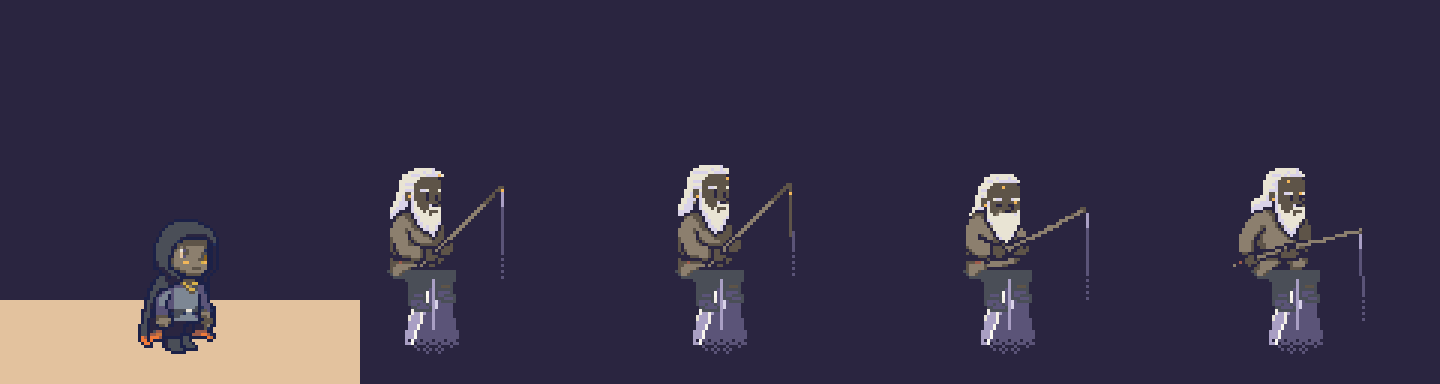
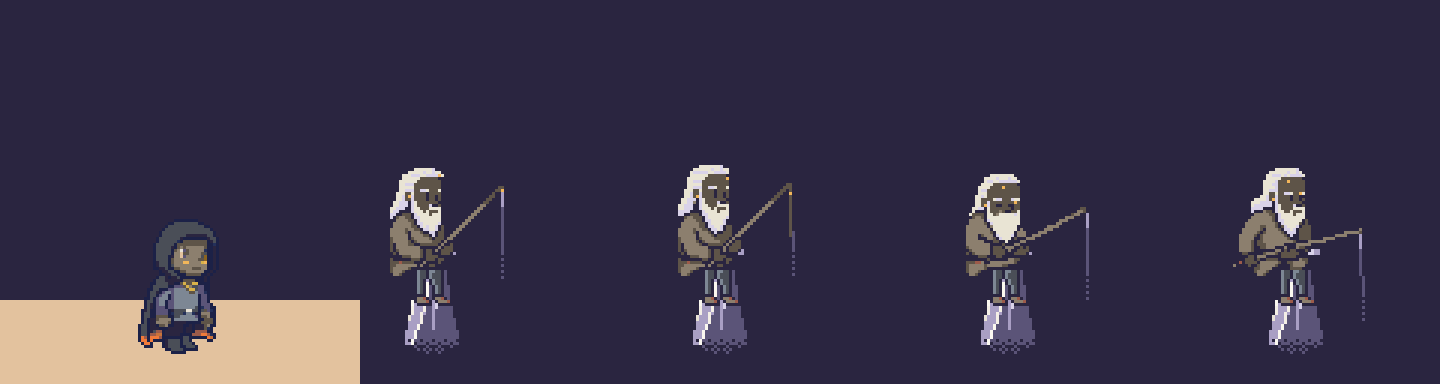
Asset: Kesh's legs and a wider perch (David's holding playtest)
Kesh read as fused into his pillar: the trousers were one block, the foot
wraps vanished into the rock and he covered the whole perch.

- npc-kesh: his legs drawn by hand on every frame (kesh.py, LEGS): two short
  thighs on the perch, the knees at its lip, two thin shins hanging down the
  needle's face with its light between them, lit on the left (watcher-stone
  on watcher-iron), outlined, the feet in sailcloth wraps shaded ochre so
  they separate from the rock. The generator's legs and toss's squat go.
- prop-kesh-rock: the perch is a flat cap 4 px wider than the needle on each
  side, its lit top showing either side of his thighs.

Same sheet, cell, origin, rows and hand points; asset only.

Claude-Session: https://claude.ai/code/session_01TJweWsCqobMAWeG9UfQZag

diff --git a/art/clean/npc-kesh/kesh.py b/art/clean/npc-kesh/kesh.py
@@ -101,15 +101,50 @@ def strip(px):
                 del px[p]
 
 
-def legs_from(px, donor):
-    """Below the hip his legs are the donor's (fish 1: dangling); only the throwing hand, left of the body
-    at the hip, stays the frame's own."""
-    gone = lambda p: p[1] >= HIP and (p[0] >= 26 or p[1] >= HIP + 2)
-    for p in [p for p in px if gone(p)]:
+# His legs, drawn by hand (David's playtest, 2026-10-18: the generator's trousers read as one block and
+# the wraps vanished into the rock): two short thighs on the perch, narrower than it so its lit top shows
+# either side, the knees at its lip, two thin shins hanging down the needle's face with its light showing
+# between them, the feet in sailcloth wraps pointing south-east.
+# Lit on the left (watcher-stone), trousers watcher-iron, wraps unwritten-sail shaded sleeper-ochre, all
+# outlined. Raw pixels from (LEGS_X, HIP); '.' leaves the pixel as it is.
+LEGS_X = 30
+LEGS = [
+    ".....OSIIOSSIIO......",
+    ".....OSIIOSIIIO......",
+    ".....OSIIOSIIIO......",
+    ".....OSIO.OSIIO......",
+    ".....OSIO.OSIIO......",
+    ".....OSIO..OSIO......",
+    ".....OSIO..OSIO......",
+    ".....OSIO..OSIO......",
+    ".....OOOO..OOOO......",
+    ".....OWWwO.OWWwO.....",
+    ".....OWWWwO.OWWWwO...",
+    "......OOOOO..OOOOO...",
+]
+LEG_INK = {"O": "hollow-deep", "S": "watcher-stone", "I": "watcher-iron", "W": "unwritten-sail",
+           "w": "sleeper-ochre"}
+
+
+def clear_legs(px, donor=None):
+    """Everything the generator drew below the hip goes (in toss the squat as well), but the coat's hem at
+    his left and, in toss, the throwing hand; toss takes its hem from the donor (fish 1)."""
+    hem = lambda p: HIP <= p[1] < HIP + 3 and 26 <= p[0] < LEGS_X + 3
+    for p in [p for p in px if p[1] >= HIP and not (p[0] < 26 and p[1] < HIP + 3) and not hem(p)]:
         del px[p]
-    for p, c in donor.items():
-        if gone(p):
-            px[p] = c
+    if donor is not None:
+        for p in [p for p in px if hem(p)]:
+            del px[p]
+        for p, c in donor.items():
+            if hem(p):
+                px[p] = c
+
+
+def draw_legs(px):
+    for dy, row in enumerate(LEGS):
+        for dx, ch in enumerate(row):
+            if ch != ".":
+                px[(LEGS_X + dx, HIP + dy)] = rgb(LEG_INK[ch])
 
 
 def colour(px):
@@ -117,9 +152,9 @@ def colour(px):
     out = {}
     for (x, y), c in px.items():
         if c == "line":
-            col = rgb("watcher-iron") if y >= HIP else rgb("hollow-deep")
+            col = rgb("hollow-deep")
         elif c == "dark":
-            col = rgb("hollow-below") if y >= 56 else rgb("unwritten-tar")
+            col = rgb("unwritten-tar")
         elif c == "cloth":
             col = rgb("unwritten-tar") if y <= head_top + 12 else rgb("unwritten-sail")   # face lights: skin
         elif c == "hair_shade":
@@ -193,13 +228,14 @@ def main():
         for i, n in enumerate(raws):
             raw = load(anim, n)
             strip(raw)
+            clear_legs(raw, donor if anim == "toss" else None)
             if anim == "toss":
-                legs_from(raw, donor)
                 hx, hy = HAND[i]
                 points[f"toss_{i}"] = [hx + PLACE[0], hy + PLACE[1]]
             px = colour(raw)
             freckles(px, raw)
             patches(px)
+            draw_legs(px)
             img = Image.new("RGBA", (CELL_W, CELL_H), CLEAR)
             for (x, y), c in px.items():
                 img.putpixel((x + PLACE[0], y + PLACE[1]), c)

diff --git a/art/clean/holding/props.py b/art/clean/holding/props.py
@@ -10,7 +10,7 @@ sources the prop recipes read (art/clean/prop-<name>/idle/frame-<n>.png). Whole-
 - twisted-tree-2: the job's candidate 2 (a forked crown), the same way, for alternate trees;
 - kesh-rock: 7 whole rows taken out of the shaft; its dark side lifted to hollow-below so it reads on the
   Hollow; its foot dithered out into the void over 8 rows, so it rises from nothing; its tip cut down to a
-  perch 10 px wide for Kesh to sit on (Task 4b; art/clean/npc-kesh/kesh.py seats him on it);
+  perch capped a little wider than the needle for Kesh to sit on (Task 4b; art/clean/npc-kesh/kesh.py seats him on it);
 - stone-outcrop, holding-store: the placed picks, recoloured.
 
     python3 art/clean/holding/props.py
@@ -132,22 +132,27 @@ def kesh_rock():
     return [out]
 
 
+PERCH_LIP = 4        # how far the perch's flat top reaches past the needle on each side
+
+
 def perch(po, w):
-    """Kesh's seat (Task 4b): the needle's tip cut off above row 25. Row 25 is the top's back edge, rows 26
-    and 27 the flat top in the light (hollow-lavender at the lit left, hollow-dusk), row 28 the lip where the
-    top turns into the face. Kesh hides most of it."""
+    """Kesh's seat (Task 4b): the needle's tip cut off above row 25 and capped with a flat stone a little
+    wider than the needle (PERCH_LIP each side), so its lit top shows beside him where he sits. Row 25 is
+    the top's back edge, rows 26-27 the top in the light (hollow-lavender, hollow-dusk at the far right),
+    row 28 its front lip, row 29 the cap's underside where it overhangs the needle."""
     for y in range(25):
         for x in range(w):
             po[x, y] = (0, 0, 0, 0)
     xs = [x for x in range(w) if po[x, 26][3]]
-    x0, x1 = min(xs), max(xs)
+    x0, x1 = min(xs) - PERCH_LIP, max(xs) + PERCH_LIP
     for x in range(x0, x1 + 1):
         inner = x0 < x < x1
         po[x, 25] = DEEP if inner else (0, 0, 0, 0)
         for y in (26, 27):
-            po[x, y] = rgb("hollow-lavender") if inner and x < x0 + 4 else (rgb("hollow-dusk") if inner else DEEP)
-        if inner:
-            po[x, 28] = DEEP
+            po[x, y] = (rgb("hollow-dusk") if x >= x1 - 2 else rgb("hollow-lavender")) if inner else DEEP
+        po[x, 28] = DEEP
+        if inner and (x < min(xs) or x > max(xs)):
+            po[x, 29] = DEEP
 
 
 def main():

diff --git a/art/review/npc-kesh/report.md b/art/review/npc-kesh/report.md
@@ -7,7 +7,7 @@ Kind npc, outline other, cell 96×128, origin (48, 118).
 
 - Frames: 10.
 - Off-palette pixels snapped: 0 (largest ΔE 0).
-- Outline gaps (edge pixels not in an outline colour): 851.
+- Outline gaps (edge pixels not in an outline colour): 302.
 - Loop seam flags (last → first above 1.5× the mean change): fish.
 - Body bob flags (top row moves more than 2 px): none.
 - Held frames (identical neighbours): none.
@@ -29,7 +29,7 @@ Rows, top to bottom: fish, talk, toss.
 | Anim | Frames | Seam (last→first / mean) | Bob (tops above the soles) | Held |
 |---|---|---|---|---|
 | fish | 4 | 287 / 146.67 **flag** |  |  |
-| talk | 2 | 650 / 650 |  |  |
+| talk | 2 | 629 / 629 |  |  |
 | toss | 4 |  |  |  |
 
 ## Frames
@@ -38,16 +38,16 @@ Shift: rows the grounding moved the frame against its canvas's row 53 (positive 
 
 | Frame | Source | Off-palette | Max ΔE | Shift | dx, dy | Outline gaps | Colours | Interior dream-night |
 |---|---|---|---|---|---|---|---|---|
-| fish_0 | `art/clean/npc-kesh/fish 0` | 0 | 0 | -32 | 0, 0 | 85 | 10 | 0 |
-| fish_1 | `art/clean/npc-kesh/fish 1` | 0 | 0 | -32 | 0, 0 | 81 | 10 | 0 |
-| fish_2 | `art/clean/npc-kesh/fish 2` | 0 | 0 | -32 | 0, 0 | 84 | 9 | 0 |
-| fish_3 | `art/clean/npc-kesh/fish 3` | 0 | 0 | -32 | 0, 0 | 85 | 10 | 0 |
-| talk_0 | `art/clean/npc-kesh/talk 0` | 0 | 0 | -32 | 0, 0 | 86 | 10 | 0 |
-| talk_1 | `art/clean/npc-kesh/talk 1` | 0 | 0 | -32 | 0, 0 | 87 | 10 | 0 |
-| toss_0 | `art/clean/npc-kesh/toss 0` | 0 | 0 | -32 | 0, 0 | 91 | 10 | 0 |
-| toss_1 | `art/clean/npc-kesh/toss 1` | 0 | 0 | -32 | 0, 0 | 84 | 11 | 0 |
-| toss_2 | `art/clean/npc-kesh/toss 2` | 0 | 0 | -32 | 0, 0 | 83 | 10 | 0 |
-| toss_3 | `art/clean/npc-kesh/toss 3` | 0 | 0 | -32 | 0, 0 | 85 | 10 | 0 |
+| fish_0 | `art/clean/npc-kesh/fish 0` | 0 | 0 | -32 | 0, 0 | 31 | 11 | 0 |
+| fish_1 | `art/clean/npc-kesh/fish 1` | 0 | 0 | -32 | 0, 0 | 27 | 11 | 0 |
+| fish_2 | `art/clean/npc-kesh/fish 2` | 0 | 0 | -32 | 0, 0 | 30 | 10 | 0 |
+| fish_3 | `art/clean/npc-kesh/fish 3` | 0 | 0 | -32 | 0, 0 | 31 | 11 | 0 |
+| talk_0 | `art/clean/npc-kesh/talk 0` | 0 | 0 | -32 | 0, 0 | 32 | 11 | 0 |
+| talk_1 | `art/clean/npc-kesh/talk 1` | 0 | 0 | -32 | 0, 0 | 32 | 11 | 0 |
+| toss_0 | `art/clean/npc-kesh/toss 0` | 0 | 0 | -32 | 0, 0 | 31 | 11 | 0 |
+| toss_1 | `art/clean/npc-kesh/toss 1` | 0 | 0 | -32 | 0, 0 | 30 | 11 | 0 |
+| toss_2 | `art/clean/npc-kesh/toss 2` | 0 | 0 | -32 | 0, 0 | 28 | 11 | 0 |
+| toss_3 | `art/clean/npc-kesh/toss 3` | 0 | 0 | -32 | 0, 0 | 30 | 11 | 0 |
 
 ## Off-palette colours the snap moved
 
